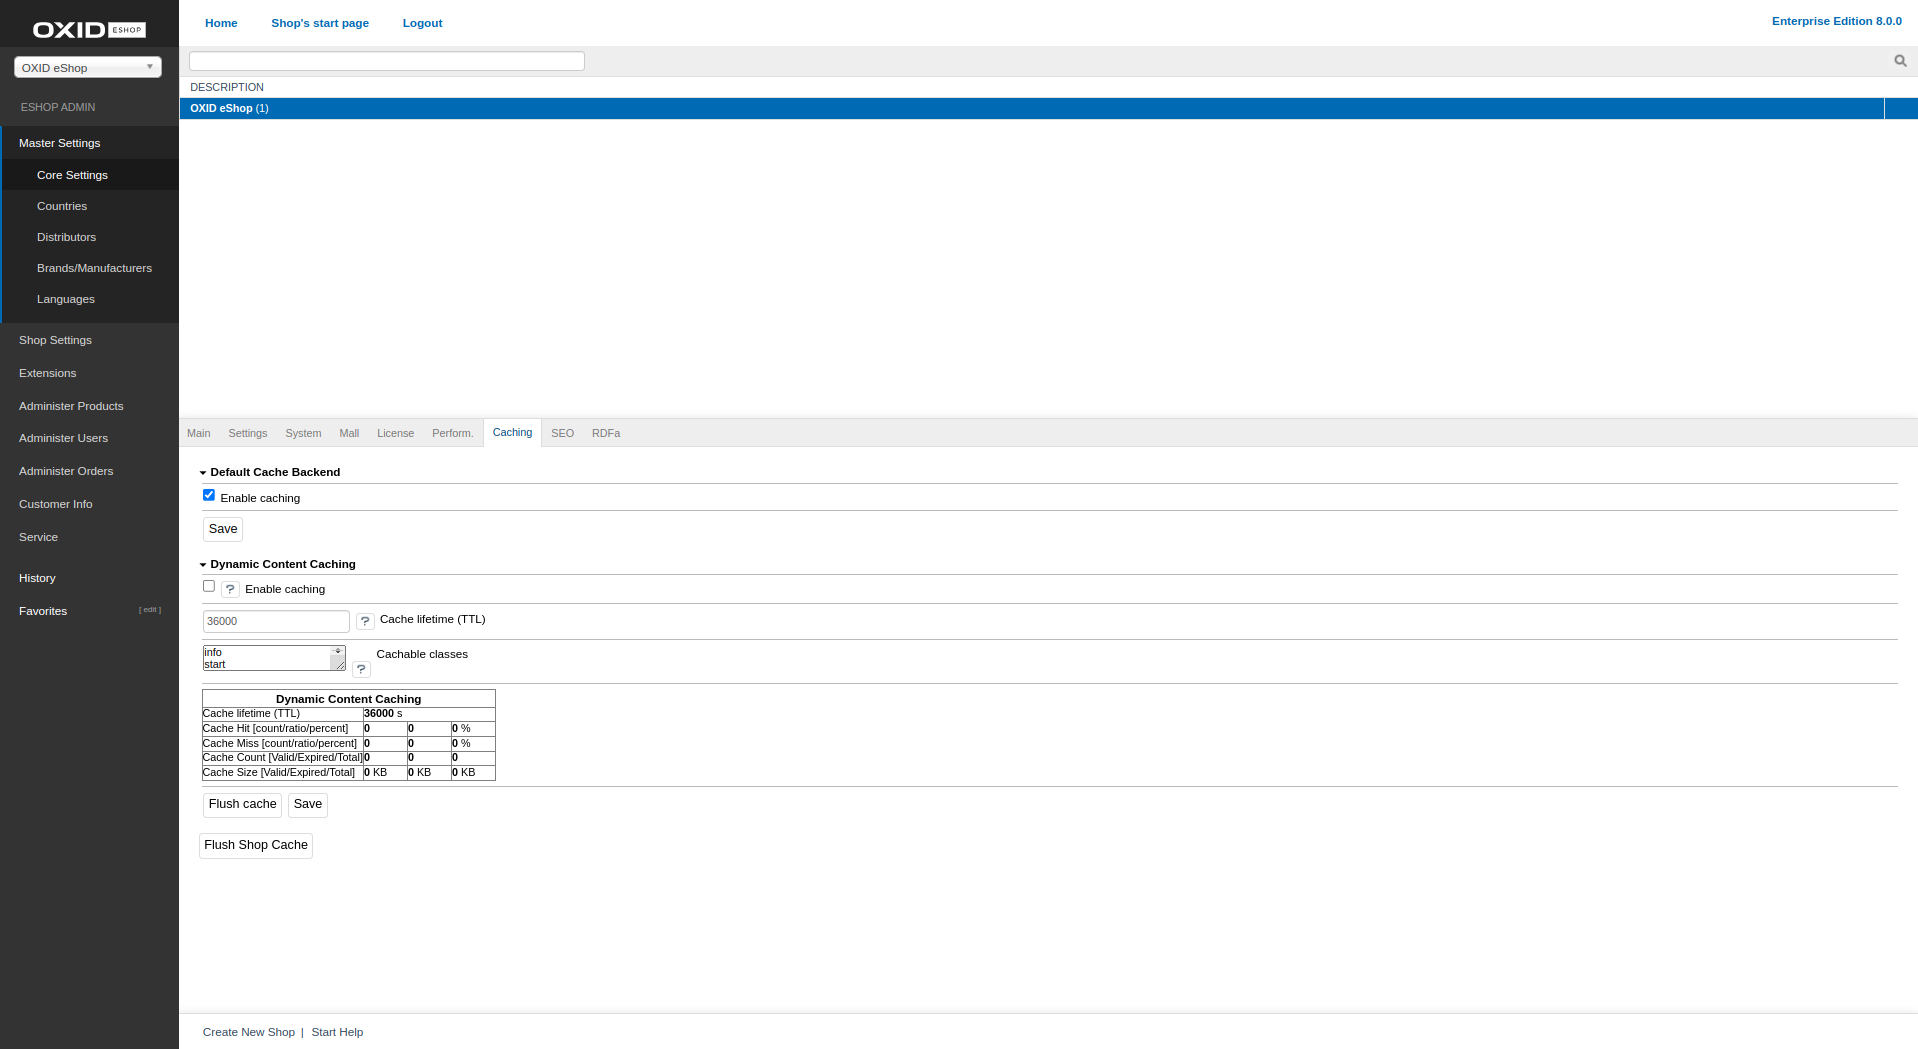
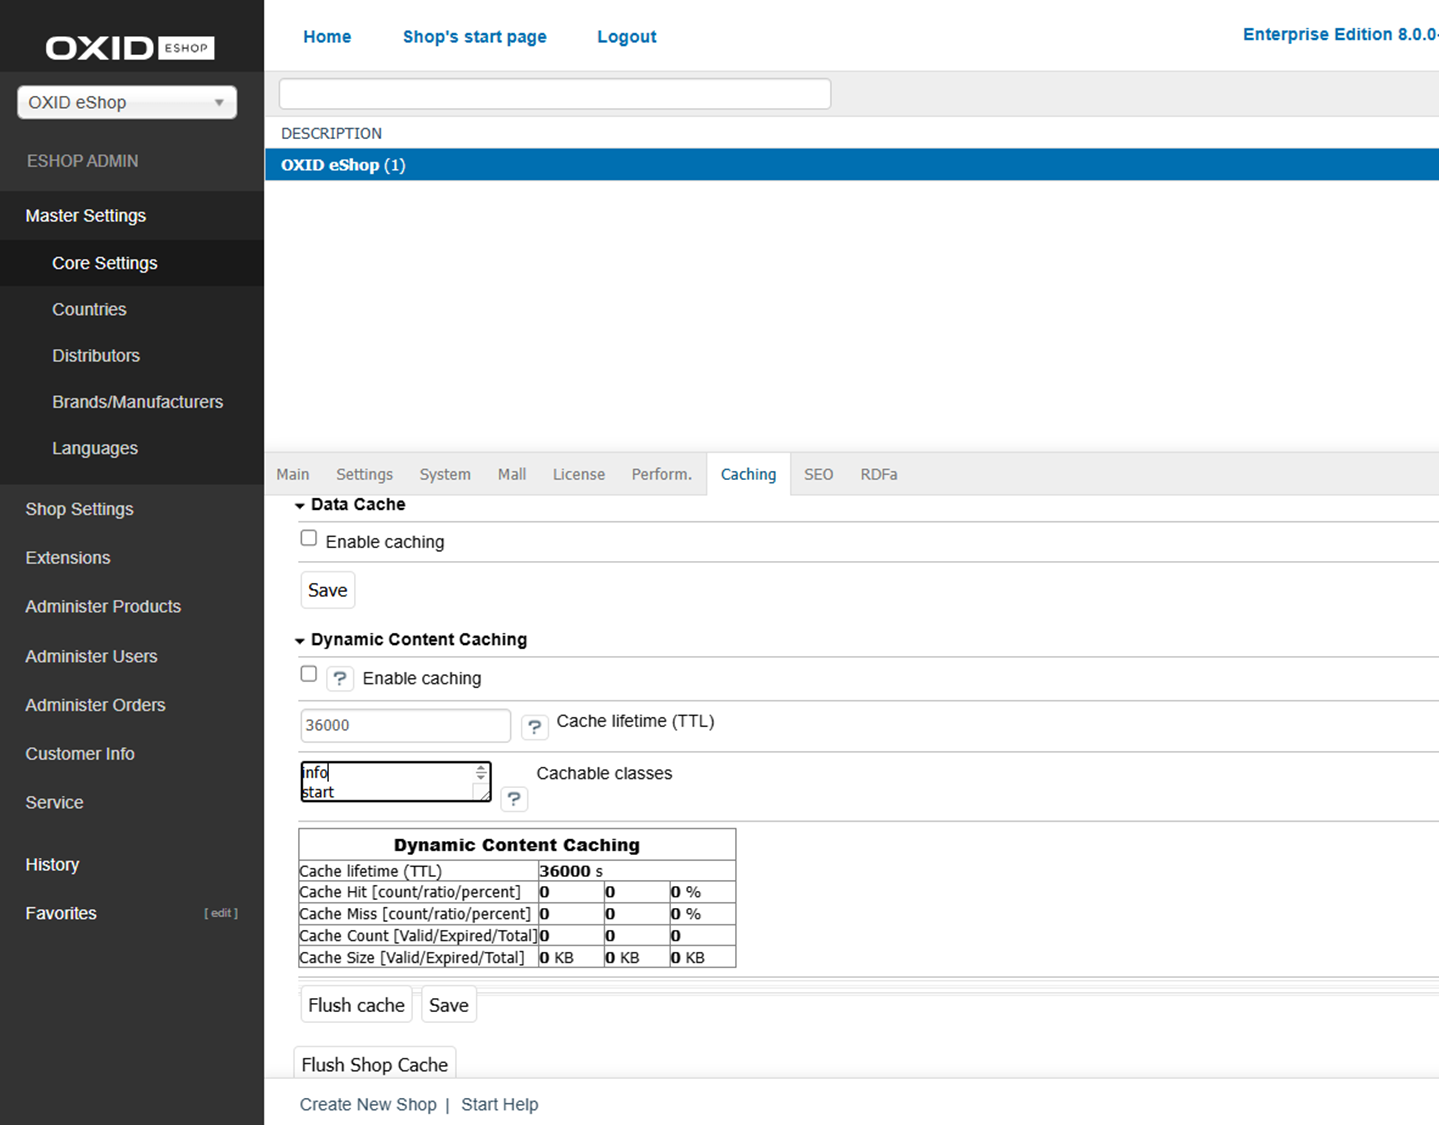
OXDEV-9090: caching open questions

diff --git a/configuration/caching/caching-settings.rst b/configuration/caching/caching-settings.rst
@@ -1,15 +1,15 @@
 Caching settings
 ================
 
-Configure the caching settings in the OXID eShop Admin panel under :menuselection:`Master Settings --> Core Settings --> Caching`.
+Configure the caching settings.
 
-The :guilabel:`Caching` tab (:ref:`oxbacd01`) is divided into three sections:
+.. todo: the following is obsolete:
+    The :guilabel:`Caching` tab (:ref:`oxbacd01`) is divided into three sections:
+    * :guilabel:`Default Cache Backend`
+    * :guilabel:`Reverse Proxy`
+    * :guilabel:`Dynamic Content Caching`.
 
-* :guilabel:`Default Cache Backend`
-* :guilabel:`Reverse Proxy`
-* :guilabel:`Dynamic Content Caching`.
 
-To expand the settings views, click the headings .
 
 .. _oxbacd01:
 
@@ -20,18 +20,24 @@ To expand the settings views, click the headings .
 
    Fig.: Caching tab
 
-Enabling caching
-----------------
+Enabling Static Content Caching
+-------------------------------
 
 Ensure that static content, such as products, categories, the category tree, volume prices, contents of CMS pages, etc., is cached by default.
 
-.. todo: #Ashraf: is it activated by default? What us the use of default caching? Why is it called "default" caching, is there a non-default caching? In which case would I deactivate default caching?
+.. todo: #Ashraf: is this the correct definition of "data" cached: static content, such as products, categories, the category tree, volume prices, contents of CMS pages, etc.
+.. todo: #Ashraf: Data caching seems not to be activated by default. Shouldn't it?
+.. todo: default caching now obsolete ? Why is it called "default" caching, is there a non-default caching? In which case would I deactivate default caching?
+.. todo: #Ahriaf: In which case is it advisiable or necessary?  In which case not?
 
 |procedure|
 
-1. Ensure that the :guilabel:`Enable caching` checkbox is activated (:ref:`oxbacd01`, item 1).
+1. In the OXID eShop Admin panel, choose :menuselection:`Master Settings --> Core Settings --> Caching`.
+#. Under :guilabel:`Data cache`, ensure that the :guilabel:`Enable caching` checkbox is activated (:ref:`oxbacd01`, item 1).
 #. Save your settings.
 
+Enabling Dynamic Content Caching
+--------------------------------
 
 .. todo: #Ahraf: the following can be removed totally, correct?
     :guilabel:`Cache lifetime (TTL)` |br|
@@ -58,22 +64,35 @@ Ensure that static content, such as products, categories, the category tree, vol
 
 .. todo: #Ahraf: the English 7.2 docu contains a Varnish reverse proxy chapter that is removed in the German version: is it no longer relevant?
 
-Dynamic Content Caching
------------------------
-This section contains the settings for dynamic content caching, which used to be the only kind of caching in Enterprise Edition.
+Activate dynamic content caching, which used to be the only kind of caching in Enterprise Edition.
+
+.. todo: #Ahraf: what does it mean: "which used to be the only kind of caching in Enterprise Edition" -- is it also available in CE and PE?
+.. todo: #Ahraf: How do I use the information provided in the table? What are typical values and corresponding actions? In which case would I activate dynamic caching, in which cases not, what are possible downsides?
 
 A table provides an overview of the data requested by the cache, such as cache hits for data in the cache or cache miss for data that is no longer in the cache.
 
-.. todo: #Agraf: Is the following still somehow relevant?
+Adjust the duration and specify the content to be cached.
+
+.. todo: #Agraf: Is the following reverse proxy thing still somehow relevant?
     Please don’t use dynamic content caching with reverse proxy because both methods essentially cache pages and dynamic content. That could adversely affect the performance.
 
-:guilabel:`Enable caching` |br|
-Check this box if you want to use dynamic content caching.
+|procedure|
 
-:guilabel:`Cache lifetime (TTL)` |br|
-Duration in seconds after which the cache is cleared. The default value is 3,600 seconds. After this time, the page layout becomes invalid. This information is sent via the HTTP header using the \"Age\" header value.
+1. In the OXID eShop Admin panel, choose :menuselection:`Master Settings --> Core Settings --> Caching`.
+#. Under :guilabel:`Dynamic Content Caching`, ensure that the :guilabel:`Enable caching` checkbox is activated (:ref:`oxbacd01`, item 2).
+#. If required, in the :guilabel:`Cache lifetime (TTL)`field, adjust the duration.
 
-:guilabel:`Cacheable classes` |br|
-List of classes which are cached by default: info, start, details, alist and vendorlist.
+   Specify the duration in seconds after which the cache is cleared.
+
+   The default value is 3,600 seconds. After this time, the page layout becomes invalid. This information is sent via the HTTP header using the \"Age\" header value.
+
+   .. todo: #Ashraf: In which case would I adjust the duration?
+
+#. In the :guilabel:`Cacheable classes` field, add custom classes to be cached.
+
+   By default, the following classes are cached: ``info``, ``start``, ``details``, ``alist``, and ``vendorlist``.
+
+#. Save your settings.
+
 
 .. Intern: oxbacd, Status:

diff --git a/configuration/caching/caching.rst b/configuration/caching/caching.rst
@@ -1,11 +1,22 @@
 Caching
 =======
 
-Database table structures, contents of the language files used and templates compiled by the Smarty template engine are saved in all shop editions by default. Queries to the OXSEO database table are also written to files, if enabled in the performance settings, to avoid repeated database access. Files are saved in the shop’s :file:`/tmp` directory and its subdirectories, e.g. :file:`/tmp/smarty`. Caching allows the system to use the contents from the cache and send them to the inquiring web clients, whenever possible. This reduces database access and significantly reduces OXID eShop response times.
+.. todo: #Ashraf: check whether the following content is still correct or whether some of it might be obsolete.
+.. todo: #Ashraf: How is Varnish, Memcached and the regular settings related to each other, mutually exclusive, additive?
+
+Database table structures, contents of the language files used and templates compiled by the Smarty template engine are saved in all shop editions by default.
+
+Queries to the OXSEO database table are also written to files, if enabled in the performance settings, to avoid repeated database access.
+
+Files are saved in the shop’s :file:`/tmp` directory and its subdirectories, e.g. :file:`/tmp/smarty`.
+
+Caching allows the system to use the contents from the cache and send them to the inquiring web clients, whenever possible. This reduces database access and significantly reduces OXID eShop response times.
 
 OXID eShop Enterprise Edition offers far more capabilities for caching.
 
-Dynamic Content Cache has been an integral part of Enterprise Edition from the very beginning. It's a caching solution that caches the generated HTML pages, including their dynamic content. For this, the technical capabilities of the Zend Server or simply the file system of the server where the shop is running can be used. If a page is requested by the browser, the system will first check whether this page is still in the cache and still valid. The validity is determined by the set lifetime (TTL, Time To Live). If the page is in the cache and contains dynamic content, it will be reloaded and then the complete page will be sent to the browser. If the requested page is not in the cache, it will be created, displayed and cached.
+Dynamic Content Cache has been an integral part of Enterprise Edition from the very beginning. It's a caching solution that caches the generated HTML pages, including their dynamic content. For this, the technical capabilities of the Zend Server or simply the file system of the server where the shop is running can be used. If a page is requested by the browser, the system will first check whether this page is still in the cache and still valid.
+
+The validity is determined by the set lifetime (TTL, Time To Live). If the page is in the cache and contains dynamic content, it will be reloaded and then the complete page will be sent to the browser. If the requested page is not in the cache, it will be created, displayed and cached.
 
 Caching has been enhanced with Enterprise Edition version 5.0.0.
 
